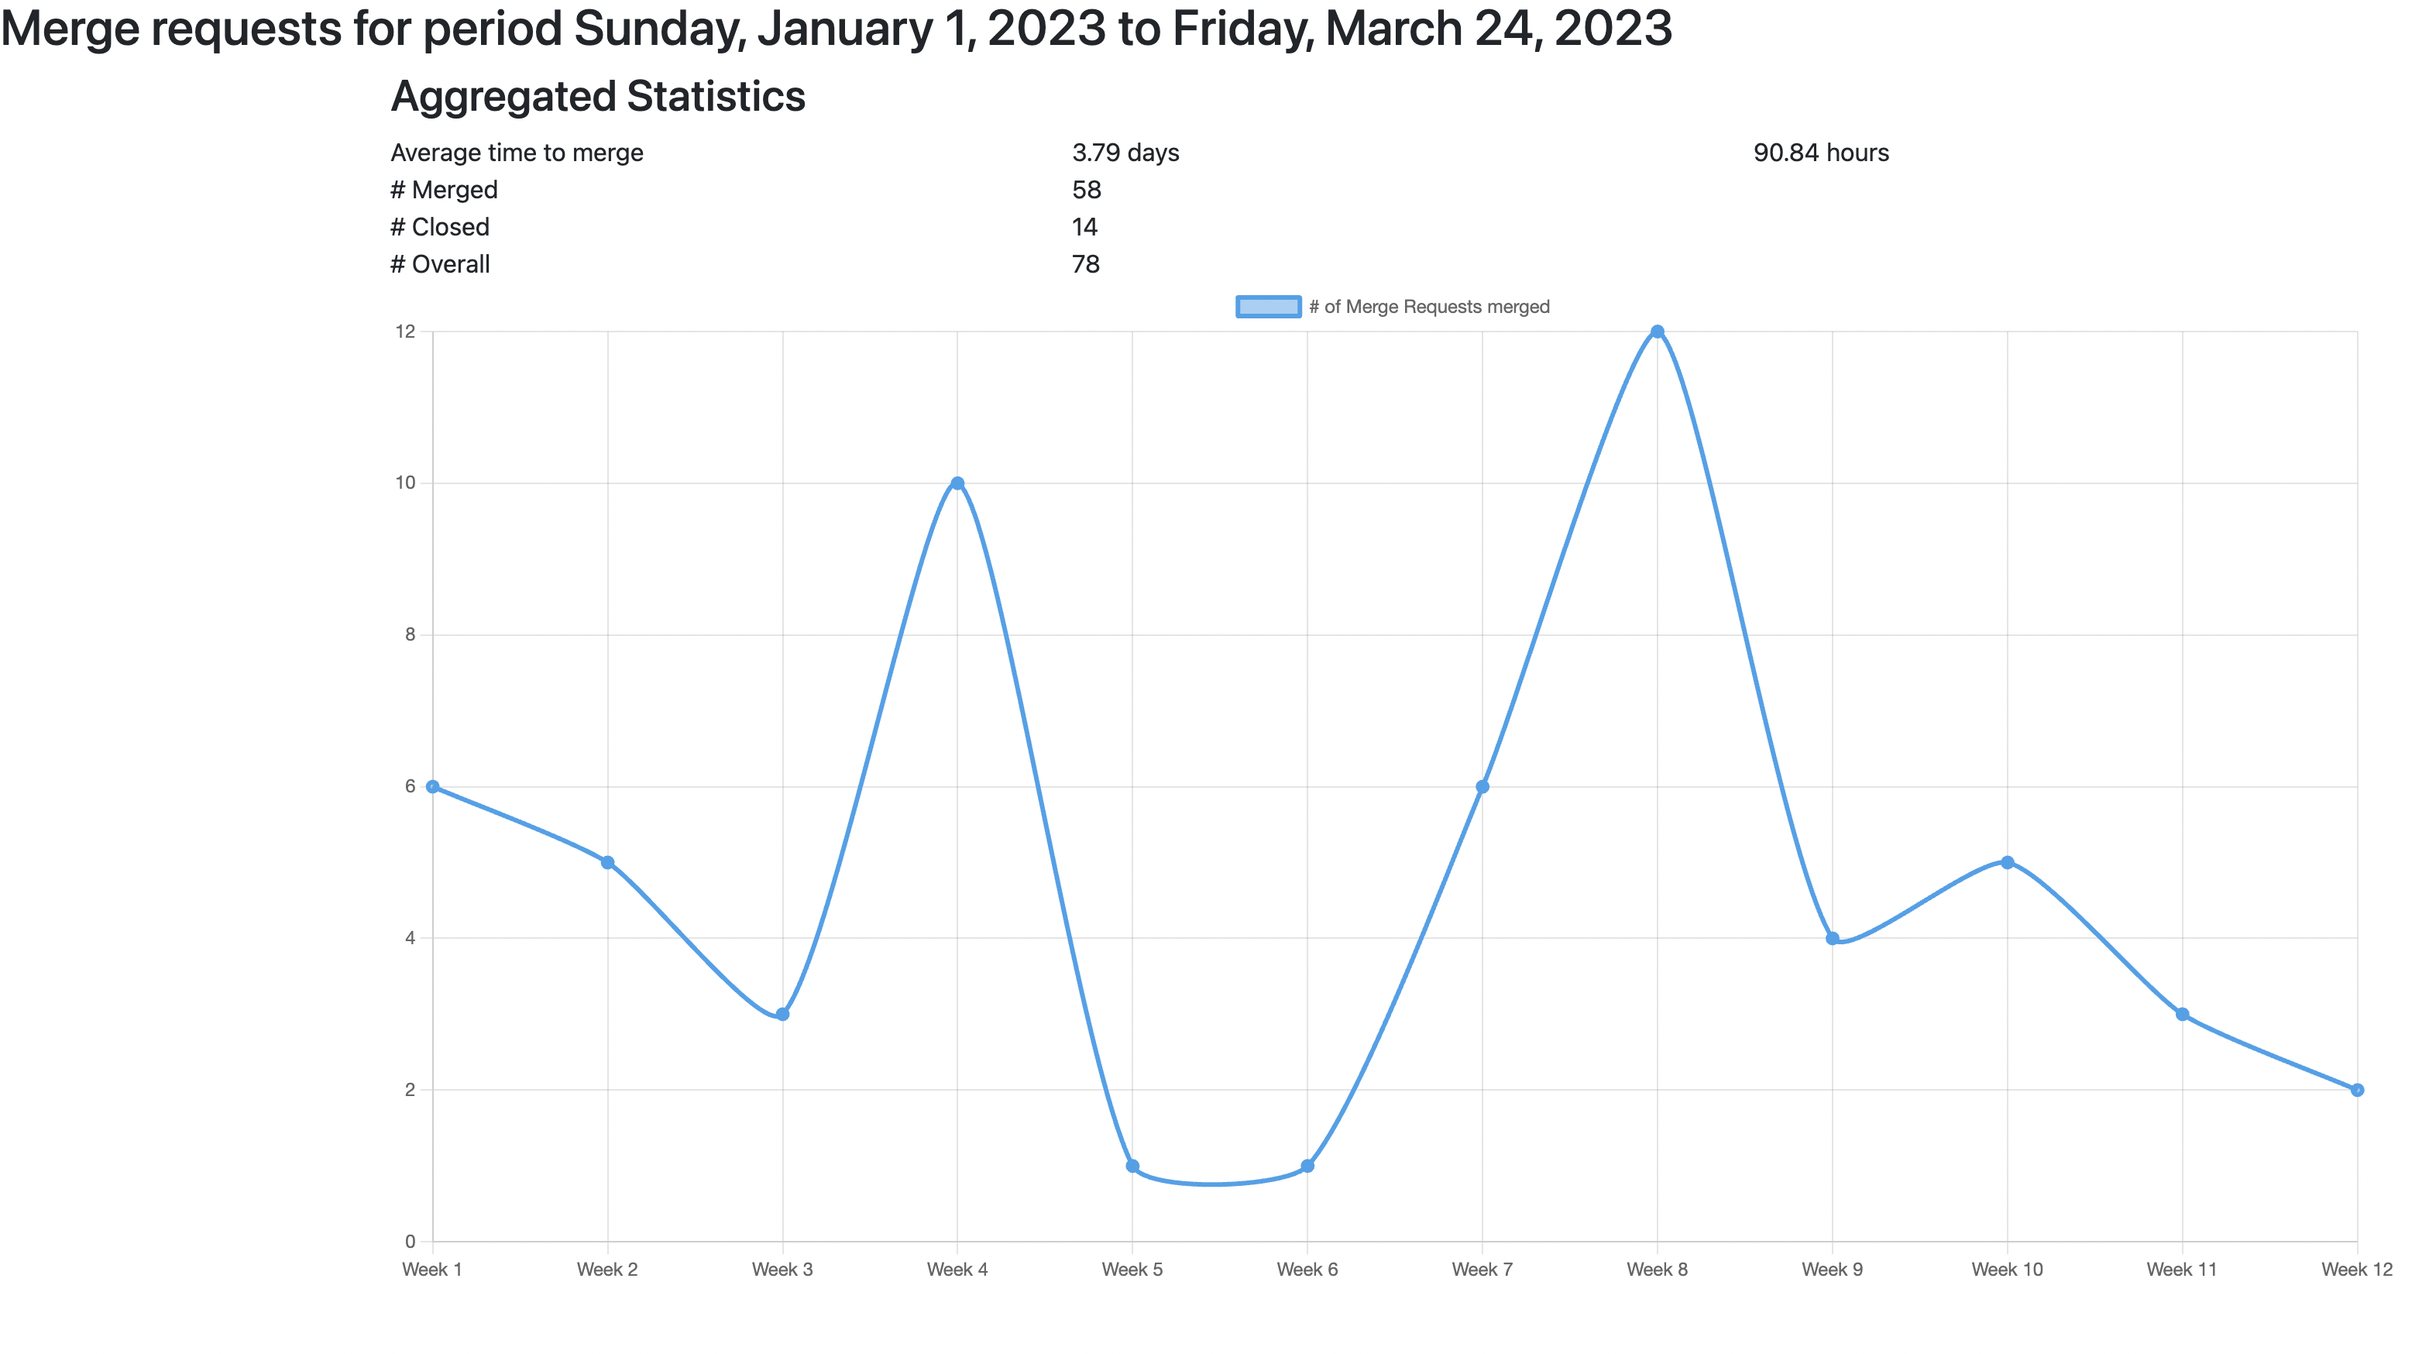
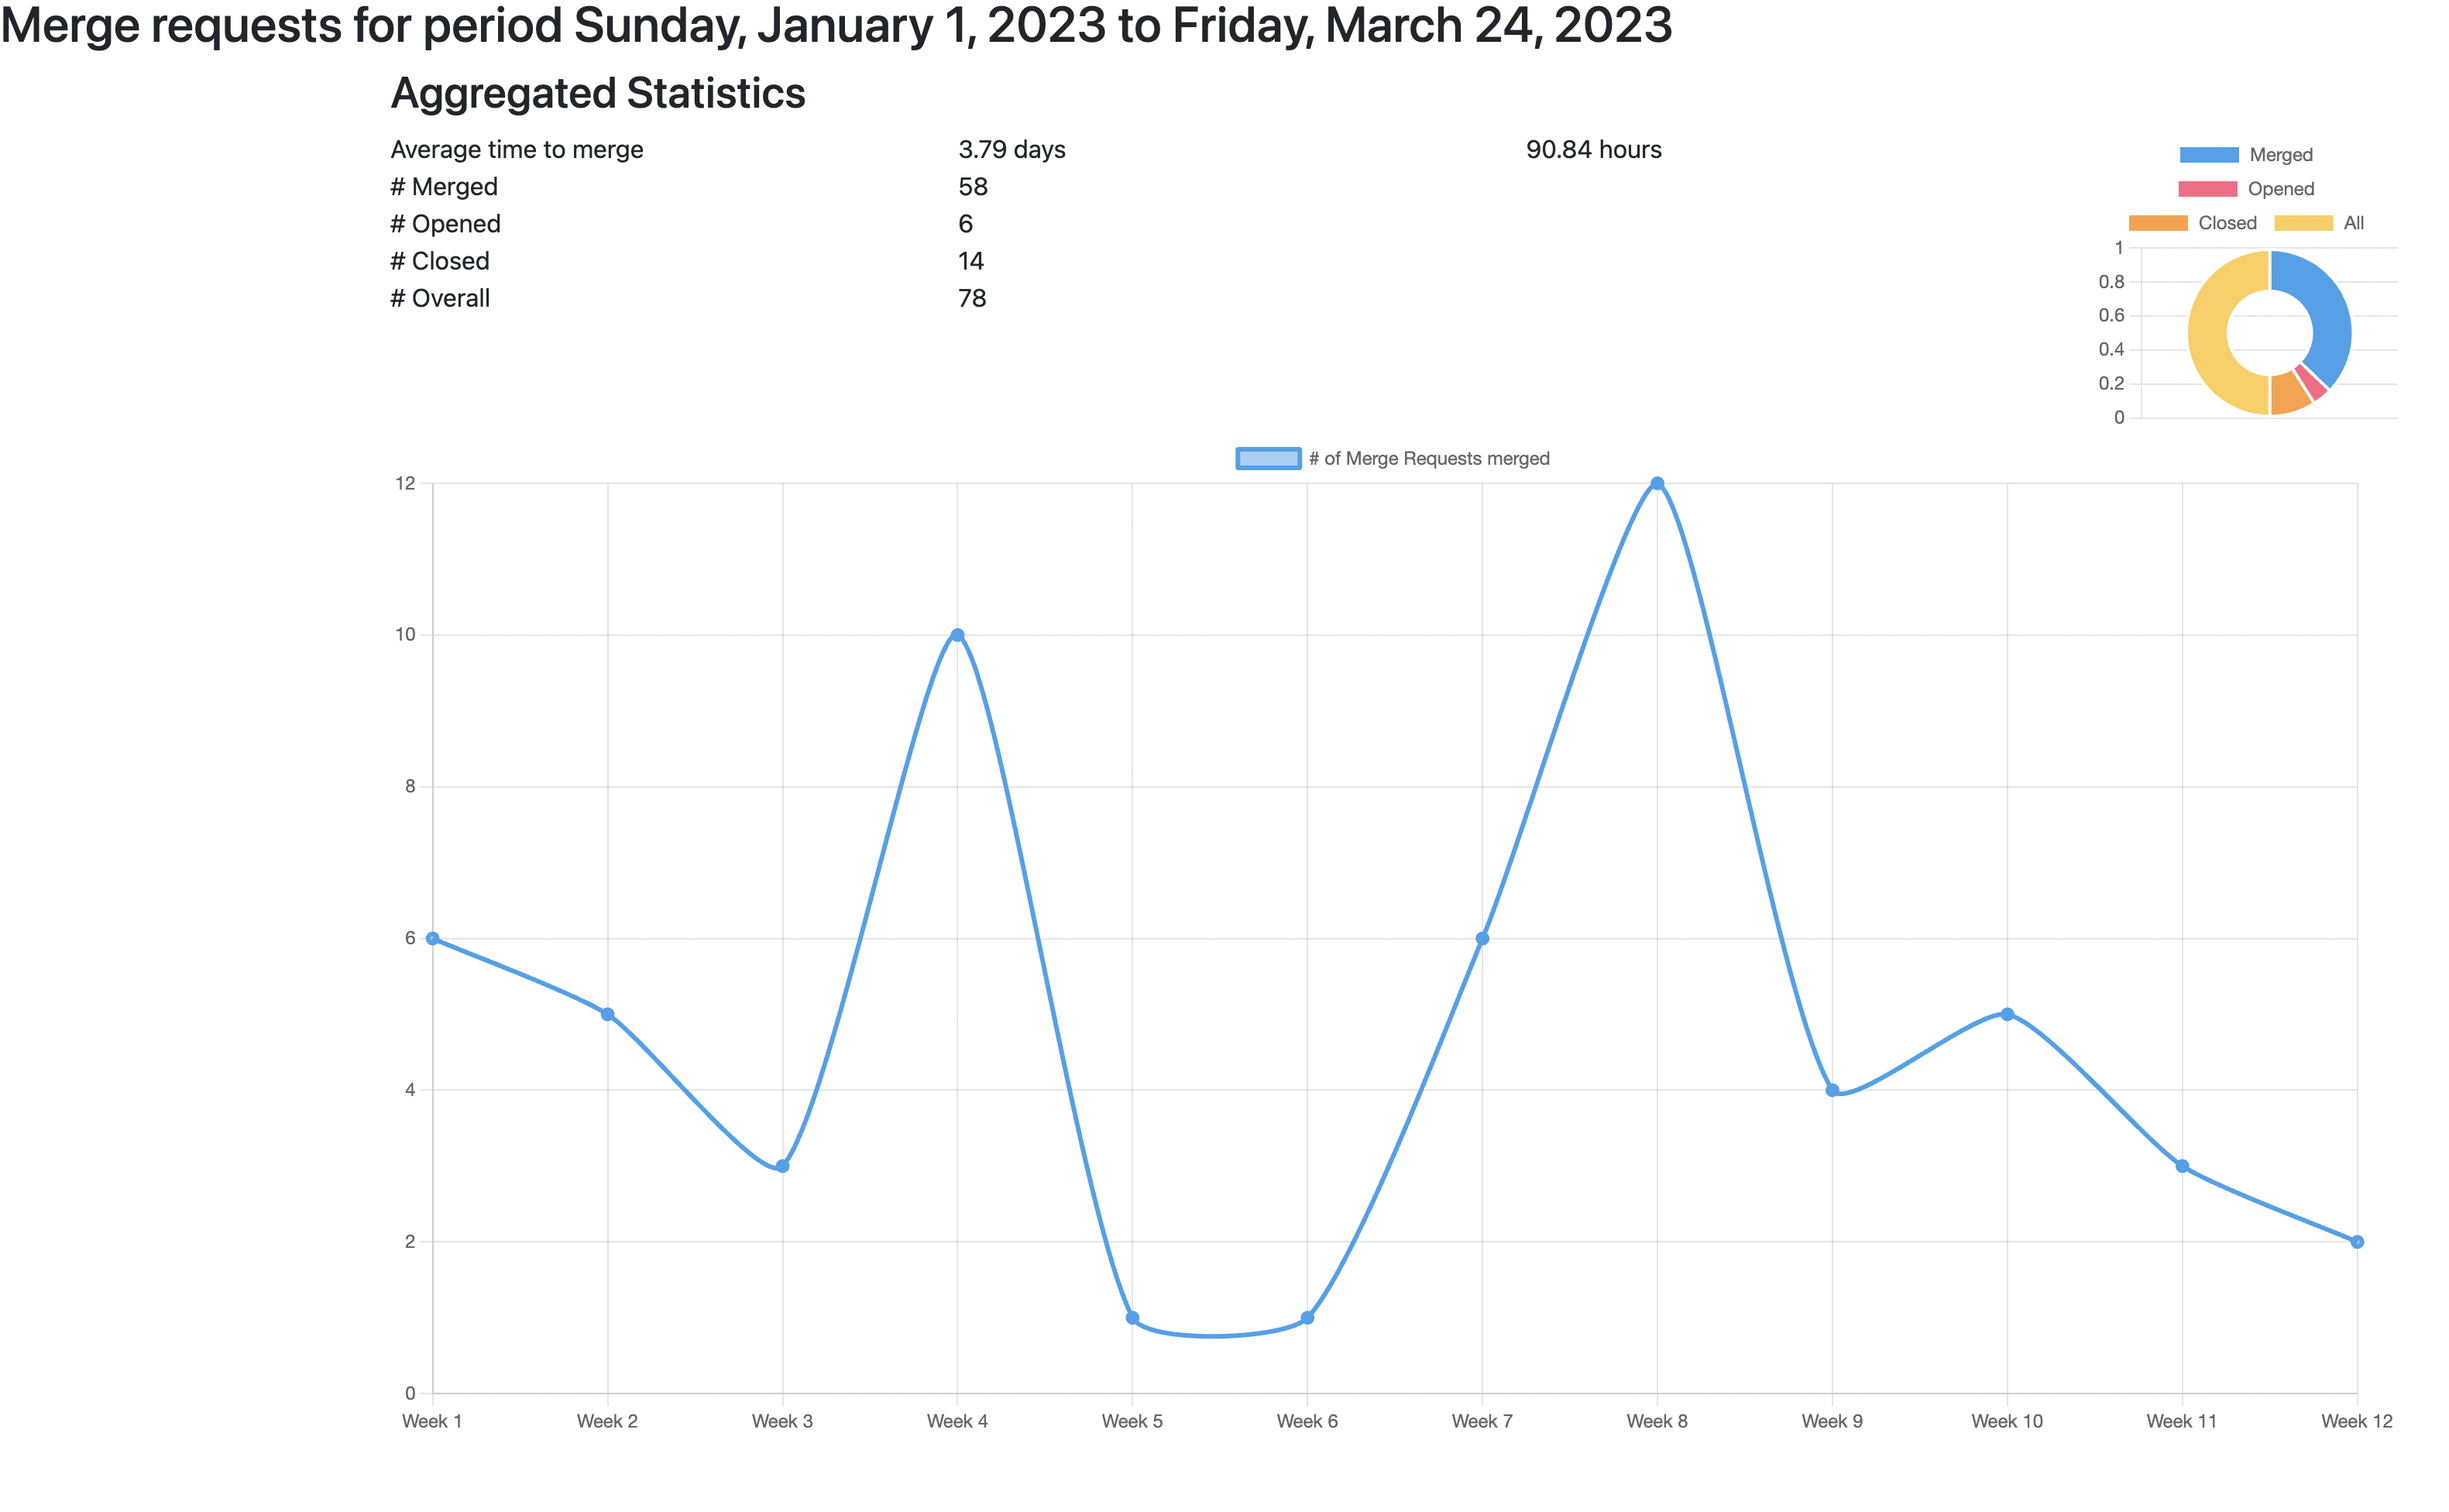
Gitlab-stats is now an ESM module (in order to provide open broser facility)

diff --git a/src/infrastructure/writer/HTMLWriter.ts b/src/infrastructure/writer/HTMLWriter.ts
@@ -1,8 +1,8 @@
-import { Writer } from "../../../index";
-import { mergeRequestsByPeriod, MergeRequestStats } from "../../merge-requests/MergeRequest";
+import { Writer } from "../../../index.js";
+import { mergeRequestsByPeriod, MergeRequestStats } from "../../merge-requests/MergeRequest.js";
 import * as fs from "fs";
 import { intlFormat } from "date-fns";
-import open from "open";
+import { openBrowser } from "./OpenBrowser.js";
 
 class HTMLContentBuilder {
   private stats: MergeRequestStats;
@@ -73,7 +73,7 @@ export class HTMLWriter implements Writer {
   write(stats: { stats: MergeRequestStats; period: { fromDate: Date; toDate: Date } }): void {
     try {
       fs.writeFileSync(`${this._filePath}/index.html`, new HTMLContentBuilder(stats).build());
-      open(`${this._filePath}/index.html`)
+      openBrowser(`${this._filePath}/index.html`);
     } catch (e) {
       console.log(e);
     }

diff --git a/index.ts b/index.ts
@@ -1,9 +1,9 @@
 import {program} from "commander";
-import {mergeRequestsStats, MergeRequestStats} from "./src/merge-requests/MergeRequest";
-import {MergedRequestHTTPGitlabRepository} from "./src/infrastructure/repository/MergeRequestHTTPGitlabRepository";
+import {mergeRequestsStats, MergeRequestStats} from "./src/merge-requests/MergeRequest.js";
+import {MergedRequestHTTPGitlabRepository} from "./src/infrastructure/repository/MergeRequestHTTPGitlabRepository.js";
 import {parseISO} from "date-fns";
-import {ConsoleWriter} from "./src/infrastructure/writer/ConsoleWriter";
-import {HTMLWriter} from "./src/infrastructure/writer/HTMLWriter";
+import {ConsoleWriter} from "./src/infrastructure/writer/ConsoleWriter.js";
+import {HTMLWriter} from "./src/infrastructure/writer/HTMLWriter.js";
 
 const commaSeparatedList =(list: string) => {
     return list.split(",")

diff --git a/src/infrastructure/writer/HTMLWriter.test.ts b/src/infrastructure/writer/HTMLWriter.test.ts
@@ -1,3 +1,4 @@
+import { jest } from "@jest/globals";
 import { MergeRequestStats } from "../../merge-requests/MergeRequest";
 import { HTMLWriter } from "./HTMLWriter";
 import { mkdtemp } from "node:fs/promises";
@@ -6,6 +7,10 @@ import * as os from "os";
 import * as fs from "fs";
 import { MergeRequestBuilder } from "../../__tests__/builder";
 import { parseISO } from "date-fns";
+
+jest.mock("./OpenBrowser", () => ({
+  openBrowser: jest.fn(),
+}));
 
 describe("HTML writer", () => {
   test("should generate an HTML report file for merged requests", async () => {

diff --git a/src/infrastructure/repository/MergeRequestHTTPGitlabRepository.ts b/src/infrastructure/repository/MergeRequestHTTPGitlabRepository.ts
@@ -1,6 +1,6 @@
-import { MergeRequest, MergeRequestRepository } from "../../merge-requests/MergeRequest";
-import { Repository } from "../../Repository";
-import * as parseLinkHeader from "parse-link-header";
+import { MergeRequest, MergeRequestRepository } from "../../merge-requests/MergeRequest.js";
+import { Repository } from "../../Repository.js";
+import parseLinkHeader from "parse-link-header";
 import { compareAsc, compareDesc, parseISO } from "date-fns";
 
 abstract class GitlabRepository<T> implements Repository<T> {

diff --git a/src/infrastructure/writer/ConsoleWriter.ts b/src/infrastructure/writer/ConsoleWriter.ts
@@ -1,5 +1,5 @@
-import { MergeRequestStats } from "../../merge-requests/MergeRequest";
-import { Writer } from "../../../index";
+import { MergeRequestStats } from "../../merge-requests/MergeRequest.js";
+import { Writer } from "../../../index.js";
 
 export class ConsoleWriter implements Writer {
   write(stats: { stats: MergeRequestStats; period: { fromDate: Date; toDate: Date } }): void {

diff --git a/src/merge-requests/MergeRequest.ts b/src/merge-requests/MergeRequest.ts
@@ -1,5 +1,5 @@
 import { compareAsc, differenceInHours, getWeek } from "date-fns";
-import { Repository } from "../Repository";
+import { Repository } from "../Repository.js";
 
 export type MergeRequest = {
   projectId: number;

diff --git a/src/infrastructure/writer/OpenBrowser.ts b/src/infrastructure/writer/OpenBrowser.ts
@@ -1,0 +1,5 @@
+import open from "open";
+
+export function openBrowser(filePath: string) {
+  open(filePath);
+}

diff --git a/README.md b/README.md
@@ -31,9 +31,10 @@ Provide statistics usage of your gitlab projects
     "total": {
       "merged": 58,
       "closed": 14,
+      "opened": 6,
       "all": 78
     }
   }
   ```
-- ` node dist/index.js mr <TOKEN> <PROJECT_ID> <PERIOD> --format html` (<PERIOD> in the following format `2023-01-01,2023-01-31`) will generate an `index.html` in the root project, open it with your favorite browser.
+- ` node dist/index.js mr <TOKEN> <PROJECT_ID> <PERIOD> --format html` (<PERIOD> in the following format `2023-01-01,2023-01-31`) will generate an `index.html` in the root project that will automatically open after generation.
   ![](documentation/chart_screenshot.png)
